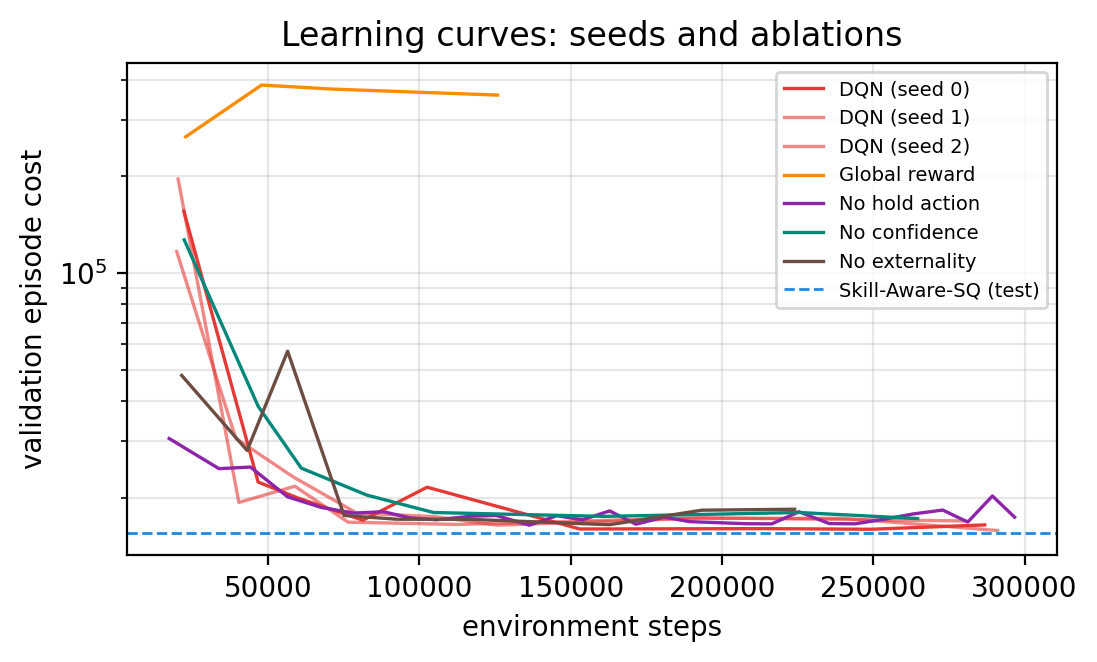
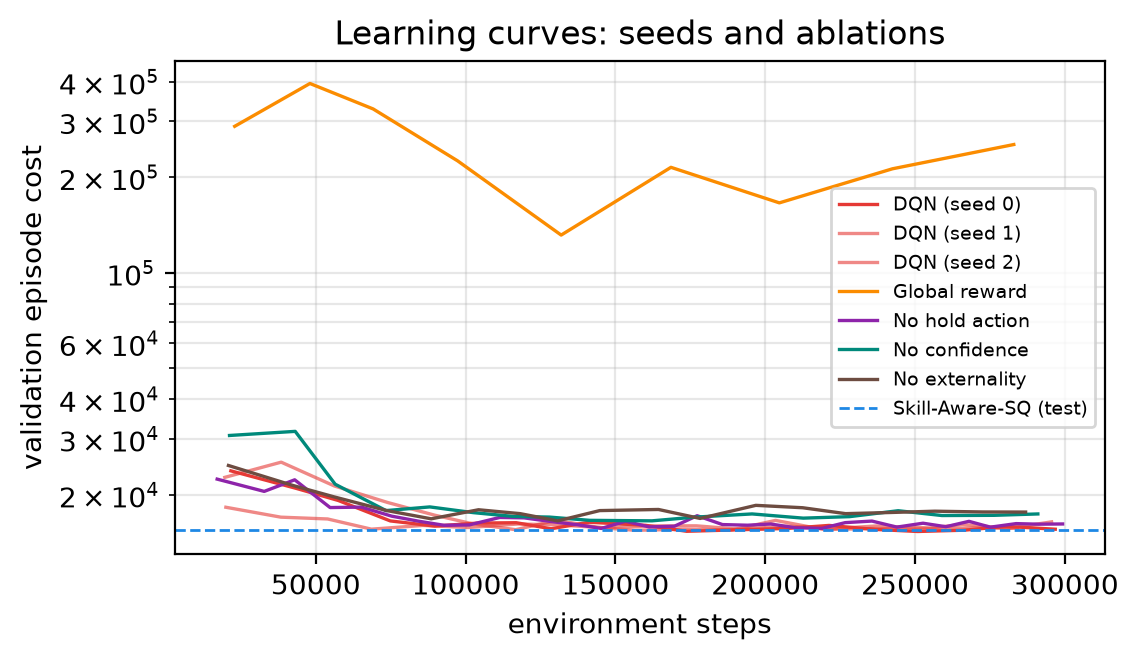
Update README and report with new results, hold cap and multi-load selection

diff --git a/report/report.tex b/report/report.tex
@@ -62,12 +62,15 @@ misroutes at routing time.
 \textbf{DQN.} Double DQN~\cite{vanhasselt2016} with a dueling head~\cite{wang2016}
 (MLP 39--256--256), Huber loss, Adam ($3\!\times\!10^{-4}$), batch 256, replay $2\!\times\!10^5$,
 soft target updates ($\tau{=}0.005$), $\epsilon$-greedy $1\!\to\!0.03$ over 120k of 300k steps,
-model selection on 5 validation shifts, demand randomised $\times[0.7,1.5]$ during training.
-Two problem-specific choices were \emph{necessary}:
+demand randomised $\times[0.7,1.5]$ during training. Checkpoints are selected on the geometric
+mean of validation cost (5 shifts) at demand $1.0/1.3/1.45\times$, so a policy that only works at
+nominal load is never picked. Three problem-specific choices were \emph{necessary}:
 
 \textbf{(i) Semi-MDP discounting}~\cite{bradtke1995}: targets use $\gamma^{\Delta t}$
-($\gamma{=}0.99$ per elapsed minute). Discounting per \emph{decision} would let the agent make
-future cost look cheaper simply by generating extra hold decisions.
+($\gamma{=}0.99$ per elapsed minute), and every cost term \emph{inside} a transition is
+discounted to its decision time (waiting $w\sum_{k<\Delta t}\gamma^k$). Discounting per decision,
+or charging a long wait undiscounted, makes the same wait look cheaper when split by holds -- in
+an earlier version this drove the agent into hold loops (25--35 holds/ticket at $1.45\times$).
 
 \textbf{(ii) Per-ticket credit assignment.} Trained on the system-wide cost stream, the DQN
 cannot tell which decision caused which cost and degenerates into holding loops (episodes grow
@@ -79,6 +82,9 @@ one shared network for all tickets (as in multi-driver order dispatching~\cite{t
 Because purely ``selfish'' per-ticket costs ignore congestion externalities~\cite{roughgarden2002},
 we add a marginal-cost (Pigouvian) term during training only: a ticket occupying one of $n_k$
 agents for $S$ minutes is charged $\frac{S}{n_k}\sum_{j\in\text{queue}_k}w_{p_j}$.
+
+\textbf{(iii) Hold cap with action masking.} A ticket may be held at most 5 times; the illegal
+hold is masked both when acting and in the target's $\arg\max$ (masks are stored in replay).
 
 \textbf{Baselines.} Random; Round-Robin and Shortest-Queue (category-blind, as proposed);
 Category-Rule (send to the classifier's top-1 specialist); Skill-Aware-SQ (least-loaded team per
@@ -99,7 +105,7 @@ Round-Robin    & 115{,}133$\pm$5463 & 70.3 & 47.7\% & 20.1\% & 1.49\\
 Shortest-Queue & 144{,}620$\pm$8724 & 129.0 & 61.6\% & 30.6\% & 3.05\\
 Category-Rule  & 25{,}961$\pm$2472 & 34.0 & 7.4\% & 1.3\% & 0.22\\
 Skill-Aware-SQ & 15{,}525$\pm$1068 & 17.0 & 1.3\% & 4.1\% & \textbf{0.18}\\
-\textbf{DQN (ours)} & \textbf{14{,}334}$\pm$882 & \textbf{15.5} & \textbf{0.3\%} & 1.4\% & 0.27\\
+\textbf{DQN (ours)} & \textbf{14{,}089}$\pm$812 & \textbf{15.2} & \textbf{0.3\%} & 1.5\% & 0.24\\
 \bottomrule
 \end{tabular}
 \end{table}
@@ -115,7 +121,8 @@ DQN never learns; the dashed line is Skill-Aware-SQ.}
 \begin{figure}[t]
 \centering
 \includegraphics[width=\linewidth]{load_sweep}
-\caption{Cost and SLA-breach rate vs.\ demand (10 shifts per point).}
+\caption{Cost and SLA-breach rate vs.\ demand (10 shifts per point). The DQN is the cheapest
+policy at every demand level.}
 \label{fig:sweep}
 \end{figure}
 
@@ -127,34 +134,34 @@ DQN never learns; the dashed line is Skill-Aware-SQ.}
 \end{figure}
 
 \textbf{Headline} (Table~\ref{tab:main}). The DQN cuts operating cost by 88\% vs.\ Round-Robin,
-90\% vs.\ Shortest-Queue, 45\% vs.\ Category-Rule and 7.7\% vs.\ Skill-Aware-SQ, which it beats
-on 28/30 paired shifts (paired saving $1191\pm321$, $t{=}7.3$). SLA breaches fall
-4$\times$ (1.3\%$\to$0.3\%), P1 breaches 3$\times$ (4.1\%$\to$1.4\%), mean resolution time from
-17.0 to 15.5\,min. Across three training seeds the cost is $14{,}522\pm272$ (std).
+90\% vs.\ Shortest-Queue, 46\% vs.\ Category-Rule and 9.3\% vs.\ Skill-Aware-SQ, which it beats
+on 29/30 paired shifts (paired saving $1436\pm349$, $t{=}8.1$). SLA breaches fall
+4$\times$ (1.3\%$\to$0.3\%), P1 breaches 2.7$\times$ (4.1\%$\to$1.5\%), mean resolution time from
+17.0 to 15.2\,min. Across three training seeds the cost is $14{,}131\pm76$ (std).
 
 \textbf{What was learned} (Fig.~\ref{fig:heat}). The agent discovered priority-aware use of the
-slow generalist: it sends only 4\% of P1 tickets there (heuristic: 18\%) but 27\% of P3 tickets
+slow generalist: it sends only 6\% of P1 tickets there (heuristic: 18\%) but 23\% of P3 tickets
 (20\%), reserving fast specialists for urgent work -- a $c\mu$-like rule that was never
-hand-coded. Its misroute rate is higher (0.27 vs 0.18 per ticket), but the extra penalties are
+hand-coded. Its misroute rate is higher (0.24 vs 0.18 per ticket), but the extra penalties are
 outweighed by shorter waits and fewer breaches.
 
-\textbf{Ablations} (Fig.~\ref{fig:curves}, nominal demand). \emph{Global reward} (same DQN on the
-system-wide cost stream): cost 249{,}071, 84\% breaches -- credit assignment is essential.
-\emph{No confidence} (top-1 label only): $+4.1\%$ cost, 0.32 misroutes/ticket.
-\emph{No hold} and \emph{no externality}: within 0.1\% of the full agent, i.e.\ the hold action
-is not needed at nominal load; at $1.45\times$ demand the externality term lowers misroutes
-(0.37 vs 0.49) but its cost effect is within seed variance.
+\textbf{Ablations} (Fig.~\ref{fig:curves}; nominal / $1.45\times$ demand, 30 test shifts).
+\emph{Global reward} (same DQN on the system-wide cost stream): cost 126{,}158, 56\% breaches --
+credit assignment is essential. \emph{No confidence} (top-1 label only): $+3.4\%$ cost.
+\emph{No externality}: $+3.1\%$ at nominal and $+9.3\%$ at $1.45\times$ (25\% vs 19\% breaches),
+so the Pigouvian term matters under congestion. \emph{No hold}: $-2.5\%$ / $-4.0\%$, i.e.\ with
+the fixes above the hold action is not needed; we keep it in the main agent for comparability.
 
-\textbf{Robustness} (Fig.~\ref{fig:sweep}). The DQN is best for demand $0.7$--$1.15\times$,
-on par at $1.3\times$ (+4\%) and worse at $1.45\times$ (+18\%), where all policies breach heavily
-and the learned policy holds and misroutes more.
+\textbf{Robustness} (Fig.~\ref{fig:sweep}). The DQN is the cheapest policy at every demand
+level from $0.7\times$ ($-8.5\%$ vs.\ Skill-Aware-SQ) to $1.45\times$ ($-3.7\%$). On the 30 test
+shifts at $1.45\times$ all three seeds beat Skill-Aware-SQ (60.8k--62.6k vs.\ 64.2k) with at most
+1.8 holds/ticket; before fixes (i) and (iii) and multi-load selection the agent was 18\% worse there.
 
 \section{Discussion \& Limitations}
 RL pays off where heuristics are blind: classifier confidence, urgency and heterogeneous service
-rates. Its main weakness is extreme overload, where per-ticket credit assignment remains partly
-selfish; better externality estimates, a hold-time cap or centralised critics are natural next
-steps. The simulator's parameters are synthetic; with real logs they would be fit from ticket
-histories.
+rates. Its margin shrinks under extreme overload, where per-ticket credit assignment remains
+partly selfish; better externality estimates or centralised critics are natural next steps. The
+simulator's parameters are synthetic; with real logs they would be fit from ticket histories.
 
 \footnotesize
 \begin{thebibliography}{9}\setlength{\itemsep}{0pt}

diff --git a/README.md b/README.md
@@ -23,32 +23,34 @@ mean ± 95 % CI:
 | Shortest-Queue | 144,620 ± 8,724  | 129.0                 | 61.6 %          | 30.6 %         | 3.05               |
 | Category-Rule  | 25,961 ± 2,472   | 34.0                  | 7.4 %           | 1.3 %          | 0.22               |
 | Skill-Aware-SQ | 15,525 ± 1,068   | 17.0                  | 1.3 %           | 4.1 %          | **0.18**           |
-| **DQN (ours)** | **14,334 ± 882** | **15.5**              | **0.3 %**       | 1.4 %          | 0.27               |
+| **DQN (ours)** | **14,089 ± 812** | **15.2**              | **0.3 %**       | 1.5 %          | 0.24               |
 
-- **−88 % / −90 %** cost vs. the proposal's Round-Robin / Shortest-Queue baselines, **−45 %**
-vs. classifier-label routing, **−7.7 %** vs. the strongest heuristic (Skill-Aware-SQ), which
-the DQN beats on **28/30** paired shifts (paired saving 1,191 ± 321, t = 7.3).
-- SLA breaches drop **4×** (1.3 % → 0.3 %), P1 breaches **3×** (4.1 % → 1.4 %).
-- Three training seeds: cost 14,522 ± 272 (std) — training is stable.
+- **−88 % / −90 %** cost vs. the proposal's Round-Robin / Shortest-Queue baselines, **−46 %**
+  vs. classifier-label routing, **−9.3 %** vs. the strongest heuristic (Skill-Aware-SQ), which
+  the DQN beats on **29/30** paired shifts (paired saving 1,436 ± 349, t = 8.1).
+- SLA breaches drop **4×** (1.3 % → 0.3 %), P1 breaches **2.7×** (4.1 % → 1.5 %).
+- Three training seeds: cost 14,131 ± 76 (std) — training is stable.
+- Robust to demand: the DQN is the cheapest policy at **every** demand level from 0.7× to 1.45×
+  (−8.5 % … −3.7 % vs. Skill-Aware-SQ); at 1.45× all three seeds beat the heuristic.
 - Learned behaviour: the agent keeps urgent work on fast specialists and pushes low-priority
-overflow to the slow generalist (P1 → generalist 4 % vs. 18 % for the heuristic; P3 → 27 % vs. 20 %).
-- Limitation: under extreme overload (1.45× demand) the DQN is 18 % worse than Skill-Aware-SQ
-(see the load sweep).
+  overflow to the slow generalist (P1 → generalist 6 % vs. 18 % for the heuristic; P3 → 23 % vs. 20 %).
 
 |                                                             |                                                                     |
 | ----------------------------------------------------------- | ------------------------------------------------------------------- |
 | ![policy comparison](results/figures/policy_comparison.png) | ![load sweep](results/figures/load_sweep.png)                       |
 | ![learning curves](results/figures/ablation_curves.png)     | ![who resolves which priority](results/figures/routing_heatmap.png) |
 
-**Ablations** (same budget, nominal demand; `results/ablation_summary.csv`):
+**Ablations** (same budget, 30 test shifts; `results/ablation_summary.csv`,
+`results/ablation_summary_stress.csv`):
 
-| Variant        | Cost    | Note                                                                                 |
-| -------------- | ------- | ------------------------------------------------------------------------------------ |
-| DQN (full)     | 14,334  | per-ticket credit assignment + semi-MDP discounting                                  |
-| Global reward  | 249,071 | learns from the system-wide cost stream instead → never learns (84 % breaches)       |
-| No confidence  | 14,916  | sees only the classifier's top-1 label → +4.1 % cost, more misroutes                 |
-| No hold action | 14,323  | hold is not needed at nominal demand                                                 |
-| No externality | 14,347  | same at nominal demand; at 1.45× demand fewer misroutes with the term (0.37 vs 0.49) |
+| Variant        | Cost (1.0×) | Cost (1.45×) | Note                                                                    |
+| -------------- | ----------- | ------------ | ----------------------------------------------------------------------- |
+| DQN (full)     | 14,089      | 61,377       | per-ticket credit assignment + semi-MDP discounting + hold cap          |
+| Global reward  | 126,158     | 278,315      | learns from the system-wide cost stream → never learns (56 % breaches)  |
+| No confidence  | 14,571      | 64,013       | sees only the classifier's top-1 label → +3.4 % cost                    |
+| No hold action | 13,732      | 58,931       | with the fixes below the hold action is not needed                      |
+| No externality | 14,519      | 67,077       | +3.1 % at nominal, +9.3 % under overload (25 % vs 19 % breaches)        |
+| Skill-Aware-SQ | 15,525      | 64,219       | strongest heuristic, for reference                                      |
 
 ## 1. The MDP
 
@@ -72,22 +74,25 @@ minutes until the next agent frees up) and global features (shift progress, disp
 recent arrival rate).
 
 **Actions** $a \in \lbrace 0,\dots,5 \rbrace$: route to Billing / Technical / Account / Logistics / Tier-1, or *hold*
-(re-decide next minute).
+(re-decide next minute). A ticket may be held at most `max_holds = 5` times; `env.action_mask()`
+reports the legal actions.
 
 **Reward** $r = -\lambda \Delta C$ with the operating cost
 
-$$C = \sum_{i} \Big( w_{p_i} T_i + B_{p_i} \mathbb{1}[T_i > \mathrm{SLA}_{p_i}] + M \cdot m_i \Big)$$
+$$C = \sum_{i} \Big( w_{p_i} T_i + B_{p_i} \mathbf{1}[T_i > \mathrm{SLA}_{p_i}] + M \cdot m_i \Big)$$
 
 where $T_i$ is the ticket's time to resolution, $m_i$ its number of misroutes,
-$w = (3, 2, 1)$ per minute, $B = (50, 25, 10)$ and $M = 5$.
+$w = (3, 2, 1)$ per minute, $B = (50, 25, 10)$, $M = 5$ and $\lambda = 0.05$ (`env.reward_scale`).
 
 **Learning** (`routerl/dqn.py`, `train.py`): Double DQN + dueling head, Huber loss, soft target
-updates, ε-greedy exploration, validation-based checkpointing, plus two design choices that
-turned out to be essential:
+updates, ε-greedy exploration, and checkpoint selection on the geometric-mean validation cost at
+demand 1.0× / 1.3× / 1.45× (`dqn.val_loads`), plus three design choices that turned out to be
+essential:
 
 1. **Semi-MDP discounting** — decisions are irregularly spaced in time, so targets use
-   $\gamma^{\Delta t}$ per elapsed minute rather than per decision (otherwise generating extra
-   hold decisions would make future costs look cheaper).
+   $\gamma^{\Delta t}$ per elapsed minute rather than per decision, and every cost term inside a
+   transition is discounted to the decision time. Otherwise the same wait looks cheaper when it is
+   split up by holds, which made an earlier version hold tickets 25–35 times under overload.
 2. **Per-ticket credit assignment** — every cost term belongs to exactly one ticket, so the
    total cost decomposes exactly into per-ticket costs. Each transition follows one ticket from a
    decision to its next decision (after a hold or bounce) or to its resolution, and one shared
@@ -95,6 +100,8 @@ turned out to be essential:
    the delay its service imposes on tickets already queued at the same team (training signal
    only; reported costs never include it). The `global` credit-assignment mode is kept as an
    ablation.
+3. **Hold cap with action masking** — the illegal hold action is masked when acting and in the
+   Double-DQN target's argmax (the next state's action mask is stored in the replay buffer).
 
 ## 2. Installation
 
